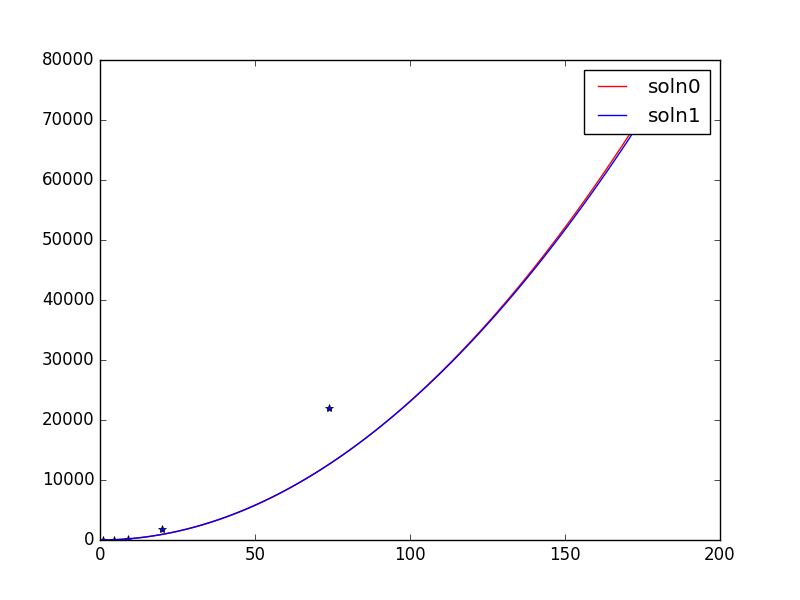
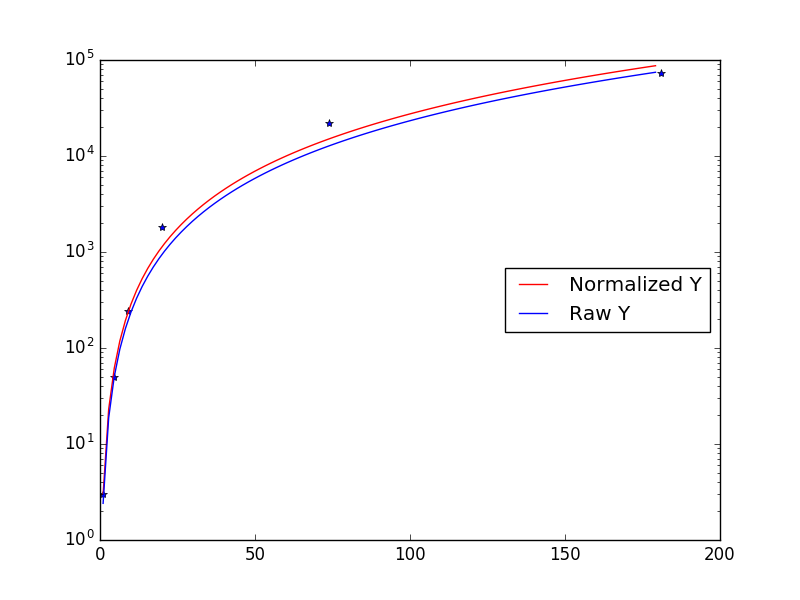
Compare normalized data with non-normalized

diff --git a/hacker_practice/03_21_18/least_squares.cpp b/hacker_practice/03_21_18/least_squares.cpp
@@ -9,6 +9,12 @@ namespace plt = matplotlibcpp;
 
 typedef Eigen::Matrix<double, 1, 1> Vector1d;
 
+//function to be optimized
+double (*opt_func)(const Eigen::VectorXd &params, const Eigen::VectorXd &x);
+// how 'least squares' is defined e.g. sum_square, lagrange
+double (*fx_func)(const Eigen::VectorXd &params, const Eigen::MatrixXd &data);
+// how gradient is calculated
+void (*grad_func)(const Eigen::VectorXd &params, const Eigen::MatrixXd &data, Eigen::VectorXd &grad);
 
 double norm(const Eigen::VectorXd& x){
     double res = 0;
@@ -17,27 +23,53 @@ double norm(const Eigen::VectorXd& x){
     return res;
 }
 
-// params[0] = a, params[1] = m
-double fx_power(const Eigen::Vector2d &params, const Vector1d &x){
-    return params[0]*std::pow(x[0], params[1]);
-}
-
-void gradient_pow(const Eigen::Vector2d &params, const Eigen::MatrixXd &data, Eigen::VectorXd &grad){
+void gradient_power(const Eigen::Vector2d &params, const Eigen::MatrixXd &data,
+        Eigen::VectorXd &grad, bool lagrange){
     grad[0] = 0;
     grad[1] = 0;
     for (int i = 0; i < data.rows(); i++){
         double x_pow_m = std::pow(data(i, 0), params[1]);
         double x_pow_prod = 2*x_pow_m*(params[0]*x_pow_m - data(i, 1));
+        if (std::fabs(data(i, 1)) > 1e-15 && lagrange) 
+            x_pow_prod /= std::pow(data(i, 1), 2);
         grad[0] += x_pow_prod;
         grad[1] += params[0]*std::log(data(i, 0))*x_pow_prod;
     }
 }
 
-double fx(const Eigen::VectorXd params, const Eigen::MatrixXd data){
+
+void grad_power_lagrange(const Eigen::VectorXd &params, const Eigen::MatrixXd &data,
+        Eigen::VectorXd &grad){
+    gradient_power(params, data, grad, true);
+}
+
+
+void grad_power_raw(const Eigen::VectorXd &params, const Eigen::MatrixXd &data,
+        Eigen::VectorXd &grad){
+    gradient_power(params, data, grad, false);
+}
+
+double fx_(const Eigen::VectorXd &params, const Eigen::MatrixXd &data, bool lagrange=false){
     double res = 0;
-    for (int i = 0; i < data.rows(); i++)
-        res += std::pow(fx_power(params, Vector1d(data(i, 0)))-data(i, 1), 2);
+    int rows = data.rows();
+    int cols = data.cols();
+    for (int i = 0; i < rows; i++){
+        double square_diff = std::pow(opt_func(params, data.block(i, 0, cols-1, 1))-data(i, 1),
+                    2);
+        if (std::fabs(data(i, 1)) > 1e-15 && lagrange)
+            square_diff /= std::pow(data(i, 1), 2);
+        res += square_diff;
+    }
     return res;
+}
+
+double fx_raw(const Eigen::VectorXd &params, const Eigen::MatrixXd &data){
+    return fx_(params, data, false);
+}
+
+
+double fx_lagrange(const Eigen::VectorXd &params, const Eigen::MatrixXd &data){
+    return fx_(params, data, true);
 }
 
 void hessian(const Eigen::VectorXd &params, const Eigen::VectorXd &grad, const Eigen::MatrixXd &data, 
@@ -48,7 +80,7 @@ void hessian(const Eigen::VectorXd &params, const Eigen::VectorXd &grad, const E
         Eigen::VectorXd tempGrad = grad;
         double delta = step*tempParams[i];
         tempParams[i] += delta;
-        gradient_pow(tempParams, data, tempGrad);
+        grad_func(tempParams, data, tempGrad);
         for (int j = 0; j < params.rows(); j++){
             hess(j, i) = (tempGrad[j]-grad[j])/delta;
         }
@@ -60,7 +92,7 @@ int fixed_t(Eigen::VectorXd &params, Eigen::VectorXd &delParams, const Eigen::Ma
         double *t, double curr_fx_val){
     int rows = params.rows();
     Eigen::VectorXd grad(rows);
-    gradient_pow(params, data, grad);
+    grad_func(params, data, grad);
     Eigen::MatrixXd hess(rows, rows);
     hessian(params, grad, data, hess);
 
@@ -74,7 +106,7 @@ int variable_t(Eigen::VectorXd &params, Eigen::VectorXd &delParams, const Eigen:
         double *t, double curr_fx_val){
     int rows = params.rows();
     Eigen::VectorXd grad(rows);
-    gradient_pow(params, data, grad);
+    grad_func(params, data, grad);
     Eigen::MatrixXd hess(rows, rows);
     hessian(params, grad, data, hess);
     
@@ -86,7 +118,7 @@ int variable_t(Eigen::VectorXd &params, Eigen::VectorXd &delParams, const Eigen:
         *t = std::pow(2, i);
         delParams = tempDelParams * *t;
         tempParams = params + delParams;
-        double temp_fx = fx(tempParams, data);
+        double temp_fx = fx_func(tempParams, data);
         if (std::fabs(temp_fx) <= std::fabs(curr_fx_val))
             break;
         i--;
@@ -107,7 +139,7 @@ void newton(const Eigen::VectorXd &params0, Eigen::VectorXd &soln, Eigen::Matrix
     Eigen::VectorXd params = params0;
     Eigen::VectorXd delParams;
 
-    double f_k = fx(params, data);
+    double f_k = fx_func(params, data);
     printf("%8s \t %8s \t %8s \t %8s \t %8s \t %8s \t %8s\n", "k", "a", "m",
             "norm(params)", "norm(delX)", "t", "f_x"); 
     printf("%8s \t %8g \t %8g \t %8g \t %8s \t %8s \t %8g\n", "0", params[0], params[1], norm(params), 
@@ -119,7 +151,7 @@ void newton(const Eigen::VectorXd &params0, Eigen::VectorXd &soln, Eigen::Matrix
         else
             status = variable_t(params, delParams, data, &t, f_k);
 
-        f_k = fx(params, data);
+        f_k = fx_func(params, data);
         printf("%8d \t %8g \t %8g \t %8g \t %8g \t %8g \t %8g \n", iterations, params[0], params[1],
                 norm(params), norm(delParams), t, f_k);
         iterations++;
@@ -132,7 +164,22 @@ void newton(const Eigen::VectorXd &params0, Eigen::VectorXd &soln, Eigen::Matrix
     soln = params;
 }
 
+void legend_loc(const std::string &location="best"){
 
+    PyObject* kwargs = PyDict_New();
+    PyDict_SetItemString(kwargs, "loc", PyString_FromString(location.c_str()));
+
+    PyObject* res = PyObject_Call(plt::detail::_interpreter::get().s_python_function_legend, plt::detail::_interpreter::get().s_python_empty_tuple, kwargs);
+    if(!res) throw std::runtime_error("Call to legend() failed.");
+
+    Py_DECREF(kwargs);
+    Py_DECREF(res);
+}
+
+// params[0] = a, params[1] = m
+double fx_power(const Eigen::VectorXd &params, const Eigen::VectorXd &x){
+    return params[0]*std::pow(x[0], params[1]);
+}
 
 int main(){
 
@@ -145,17 +192,23 @@ int main(){
 
 
 
-    Eigen::Vector2d params0(2.5, 2.25);
+    Eigen::Vector2d params0(2.6, 2);
     Eigen::VectorXd soln0(2);
     cout << "Initial condition a = " << params0[0] << " m = " << params0[1] << endl;
-    printf("\nQuasi-Newton With Line Search\n");
+    printf("\nQuasi-Newton With Line Search, Magnitude normalization\n");
+
+    opt_func = fx_power;
+    fx_func = fx_lagrange;
+    grad_func = grad_power_lagrange;
     newton(params0, soln0, data, false);
 
-
-    Eigen::Vector2d params1(2.8, 2.8);
+    fx_func = fx_raw;
+    grad_func = grad_power_raw;
+    //Eigen::Vector2d params1(2.8, 2.8);
     Eigen::VectorXd soln1(2);
-    cout << "Initial condition a = " << params1[0] << " m = " << params1[1] << endl;
-    newton(params1, soln1, data, false);
+    cout << "Initial condition a = " << params0[0] << " m = " << params0[1] << endl;
+    printf("\nQuasi-Newton With Line Search, No normalization\n");
+    newton(params0, soln1, data, false);
 
     Eigen::VectorXd x_vec = data.col(0);
     std::vector<double> x(x_vec.data(), x_vec.data() + x_vec.rows());
@@ -176,10 +229,11 @@ int main(){
         y1_plot[i] = soln1[0]*pow(x_point, soln1[1]);
     }
 
-    plt::plot(x, y, "*");
-    plt::named_plot("soln0", x_plot, y0_plot, "r");
-    plt::named_plot("soln1", x_plot, y1_plot, "b");
-    plt::legend();
+    plt::semilogy(x, y, "*");
+    plt::named_semilogy("Normalized Y", x_plot, y0_plot, "r");
+    plt::named_semilogy("Raw Y", x_plot, y1_plot, "b");
+    //plt::legend();
+    legend_loc("right");
     plt::save("fit_plot.png");
     //plt::show();
 
